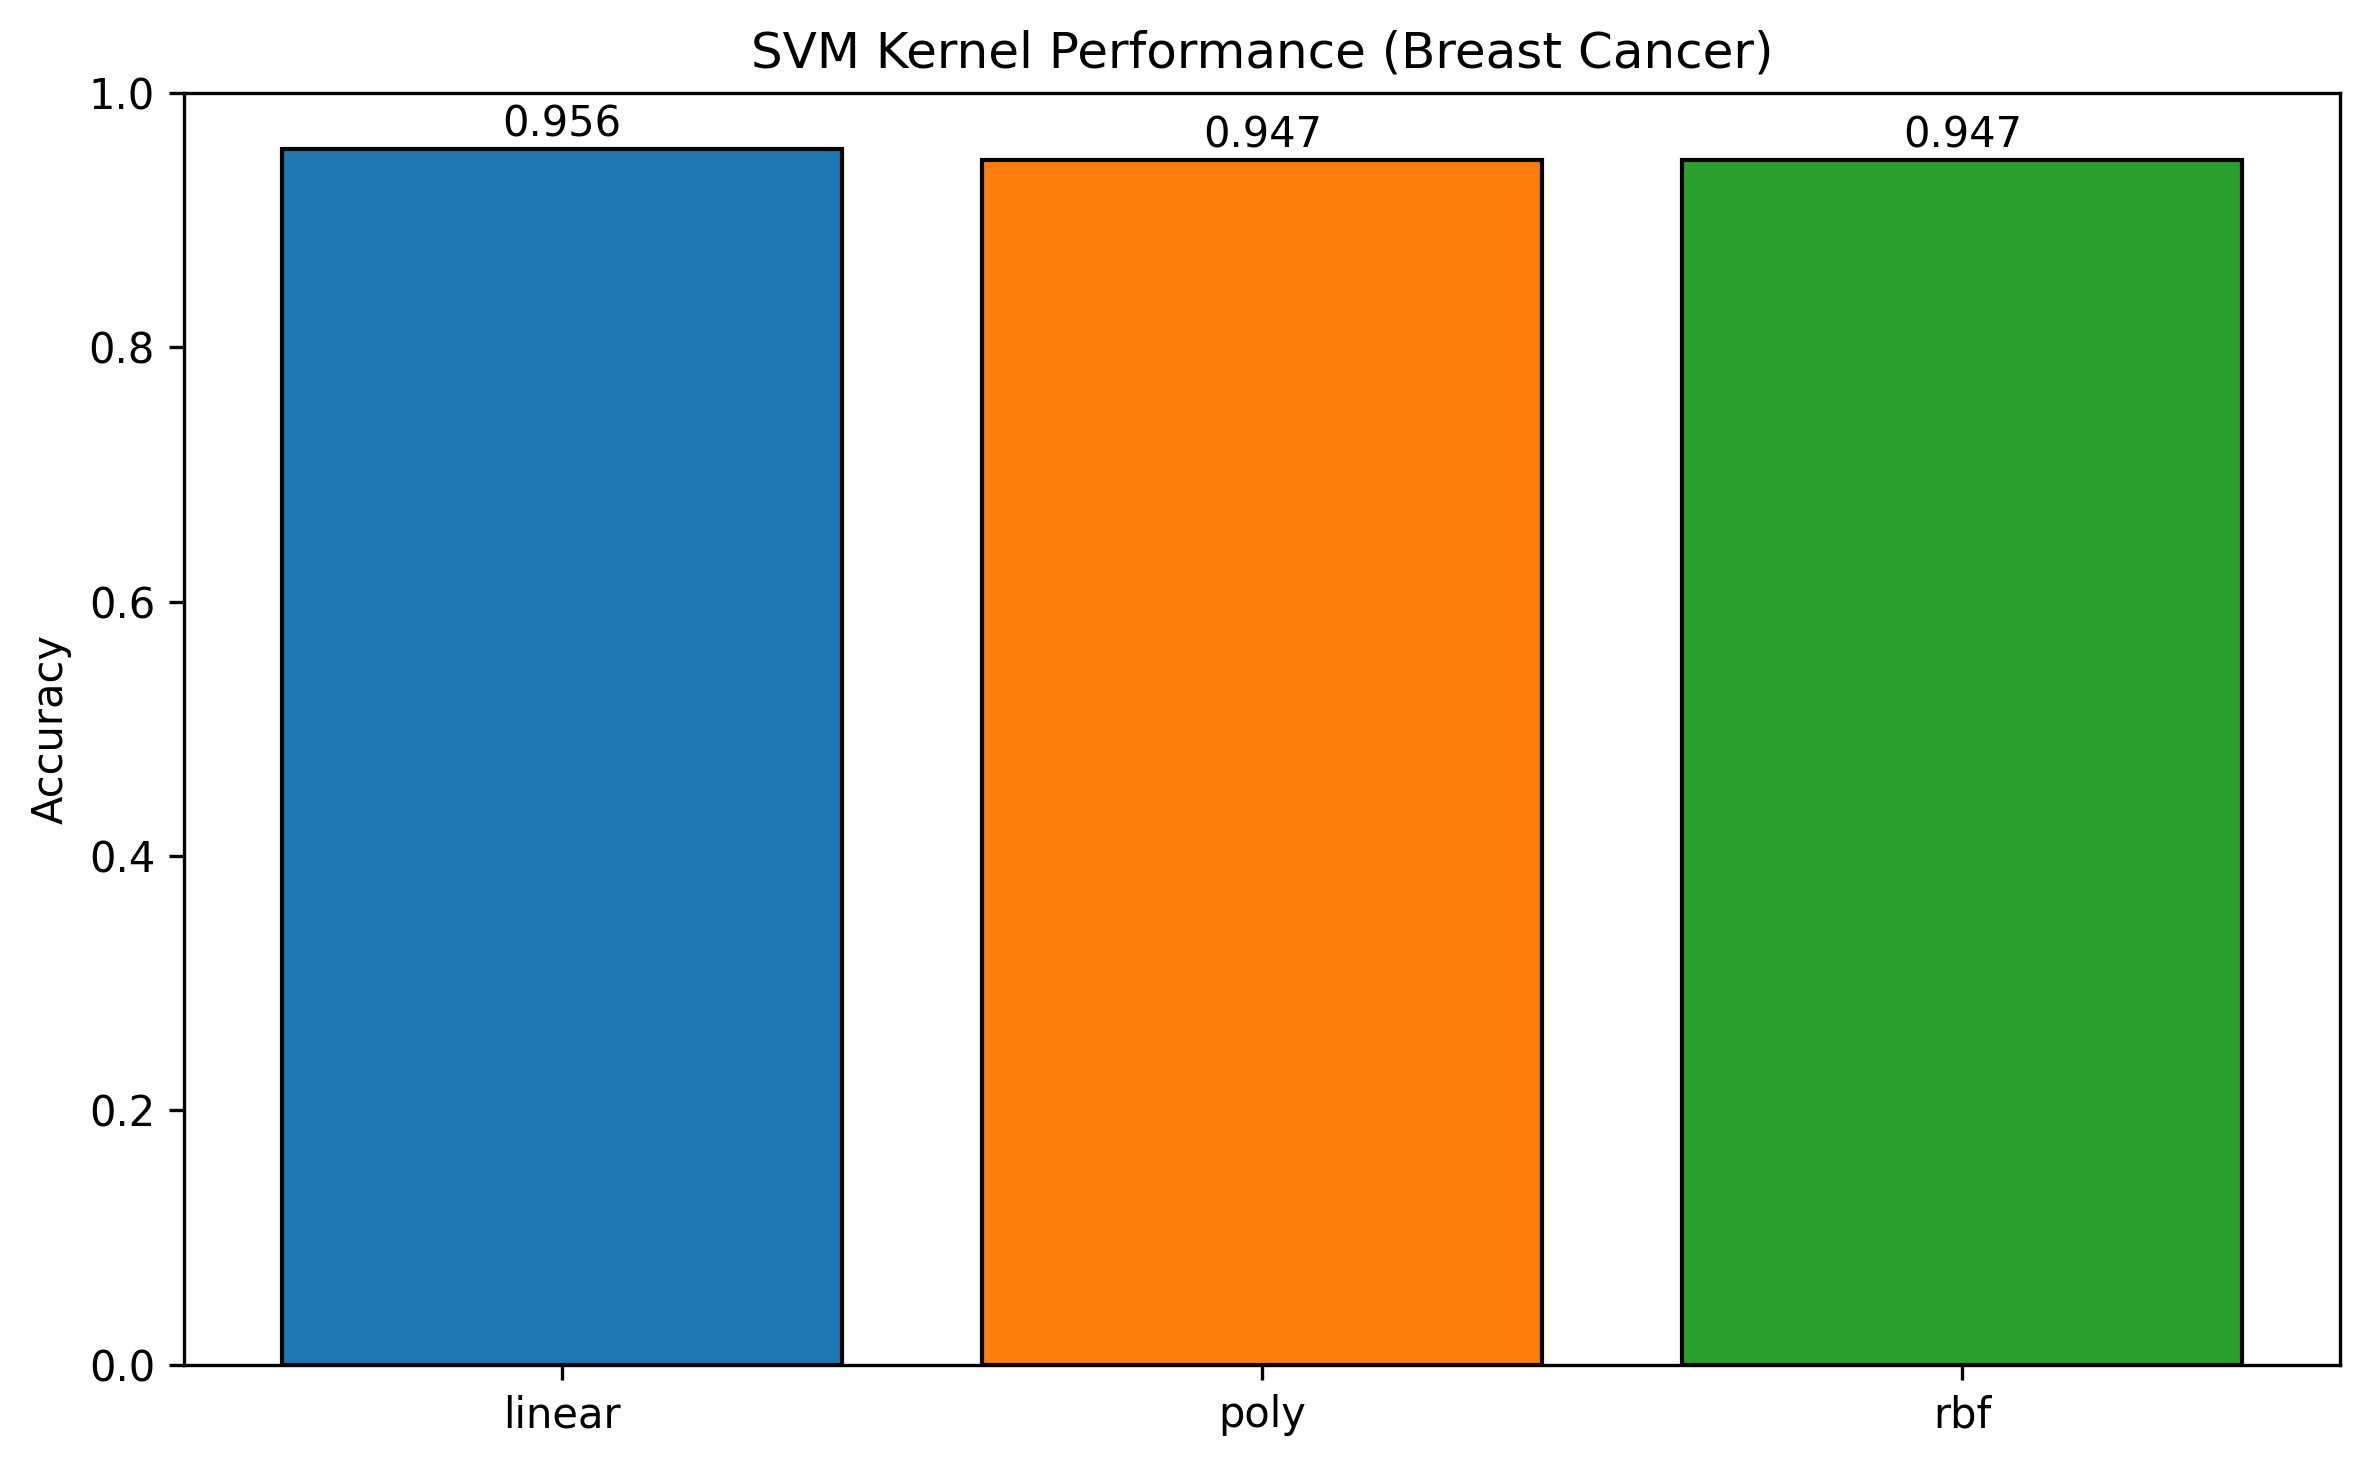
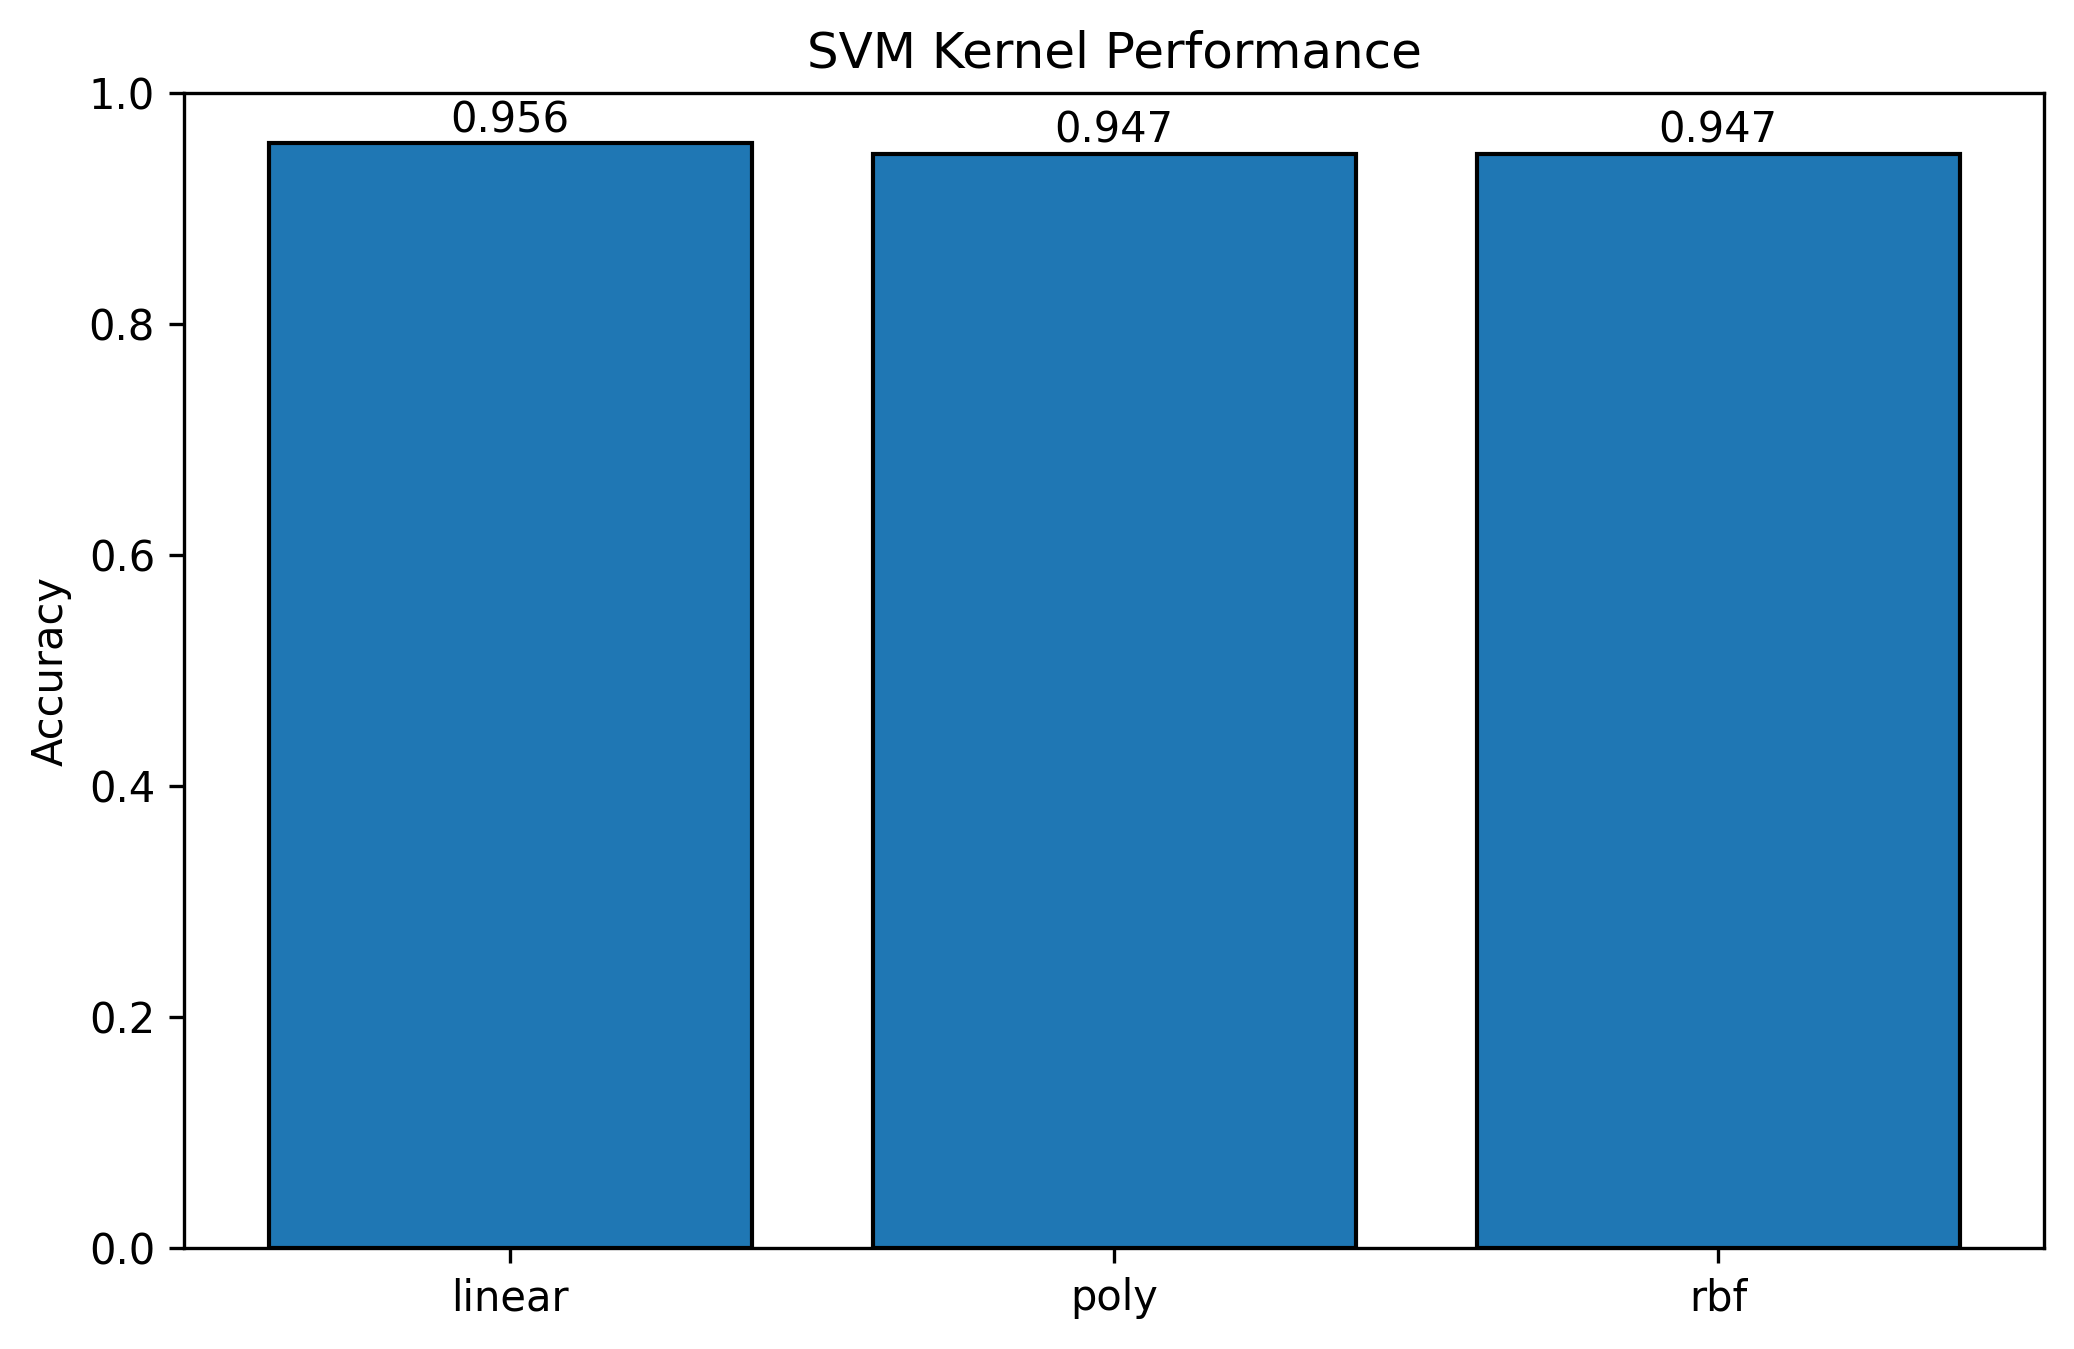
update

diff --git a/SVM BreastCancer.py b/SVM BreastCancer.py
@@ -51,27 +51,29 @@ print(f"Best Accuracy: {Best_Accuracy}")
 
 kernels = ['linear', 'poly', 'rbf']
 accuracies = []
+preds = []
 
-for kernel in kernels:
-    clf = svm.SVC(kernel=kernel, random_state=42)
+for k in kernels:
+    clf = svm.SVC(kernel=k, random_state=42)
     clf.fit(x_train, y_train)
-    acc = accuracy_score(y_test, clf.predict(x_test))
+    pred = clf.predict(x_test)
+    acc = accuracy_score(y_test, pred)
     accuracies.append(acc)
-    print(f"SVM {kernel.upper():5} Accuracy: {acc:.4f}")
-print(f"\nBest Model: {Best_model} | Accuracy: {Best_Accuracy:.4f}")
+    preds.append(pred)
+    print(f"SVM {k.upper():5} → {acc:.4f}")
+
+best_idx = accuracies.index(max(accuracies))
+best_kernel = kernels[best_idx]
+best_pred = preds[best_idx]
+print(f"\nBest: SVM {best_kernel.upper()} → {accuracies[best_idx]:.4f}")
 
 plt.figure(figsize=(8, 5))
-bars = plt.bar(kernels, accuracies, color=['#1f77b4', '#ff7f0e', '#2ca02c'], edgecolor='black')
-plt.ylim(0, 1)
-plt.ylabel('Accuracy')
-plt.title('SVM Kernel Performance (Breast Cancer)')
-for i, bar in enumerate(bars):
+bars = plt.bar(kernels, accuracies, edgecolor='black')
+for bar, acc in zip(bars, accuracies):
     plt.text(bar.get_x() + bar.get_width()/2, bar.get_height() + 0.01,
-             f'{accuracies[i]:.3f}', ha='center', fontsize=10)
-plt.tight_layout()
-
+             f'{acc:.3f}', ha='center')
+plt.ylim(0, 1); plt.ylabel('Accuracy'); plt.title('SVM Kernel Performance')
 plt.savefig("output/svm_breastcancer_kernels.png", dpi=300, bbox_inches='tight')
-print(f"Kernel comparison saved -> output/svm_breastcancer_kernels.png")
 plt.show()
 
 pca_2d = decomposition.PCA(n_components=2)
@@ -80,14 +82,12 @@ x_pca_2d = pca_2d.transform(x_test)
 
 # --- 2D PCA Plot ---
 pca = decomposition.PCA(n_components=2)
-x_pca_2d = pca.fit_transform(x_test)
+x_pca = pca.fit_transform(x_test)
 
 plt.figure(figsize=(8, 6))
-plt.scatter(x_pca_2d[:, 0], x_pca_2d[:, 1], c=Best_Prediction, 
-            cmap='bwr', s=70, edgecolor='k')  # Blue=Benign, Red=Malignant
-plt.xlabel("PC1")
-plt.ylabel("PC2")
-plt.title(f"SVM ({Best_model}) - 2D PCA")
+plt.scatter(x_pca[:, 0], x_pca[:, 1], c=best_pred, cmap='bwr', s=70, edgecolor='k')
+plt.xlabel("PC1"); plt.ylabel("PC2")
+plt.title(f"SVM ({best_kernel.upper()}) – 2-D PCA")
 plt.legend(handles=[
     plt.Line2D([0], [0], marker='o', color='w', markerfacecolor='blue', label='Benign'),
     plt.Line2D([0], [0], marker='o', color='w', markerfacecolor='red',  label='Malignant')
@@ -98,14 +98,14 @@ plt.show()
 
 # --- 3D PCA Plot ---
 pca = decomposition.PCA(n_components=3)
-x_pca_3d = pca.fit_transform(x_test)
+x_pca = pca.fit_transform(x_test)
 
 fig = plt.figure(figsize=(9, 7))
 ax = fig.add_subplot(111, projection='3d')
-ax.scatter(x_pca_3d[:, 0], x_pca_3d[:, 1], x_pca_3d[:, 2], 
-           c=Best_Prediction, cmap='bwr', s=60, edgecolor='k')
+ax.scatter(x_pca[:, 0], x_pca[:, 1], x_pca[:, 2],
+           c=best_pred, cmap='bwr', s=60, edgecolor='k')
 ax.set_xlabel("PC1"); ax.set_ylabel("PC2"); ax.set_zlabel("PC3")
-ax.set_title(f"SVM ({Best_model}) - 3D PCA")
+ax.set_title(f"SVM ({best_kernel.upper()}) – 3-D PCA")
 ax.legend(handles=[
     plt.Line2D([0], [0], marker='o', color='w', markerfacecolor='blue', label='Benign'),
     plt.Line2D([0], [0], marker='o', color='w', markerfacecolor='red',  label='Malignant')
